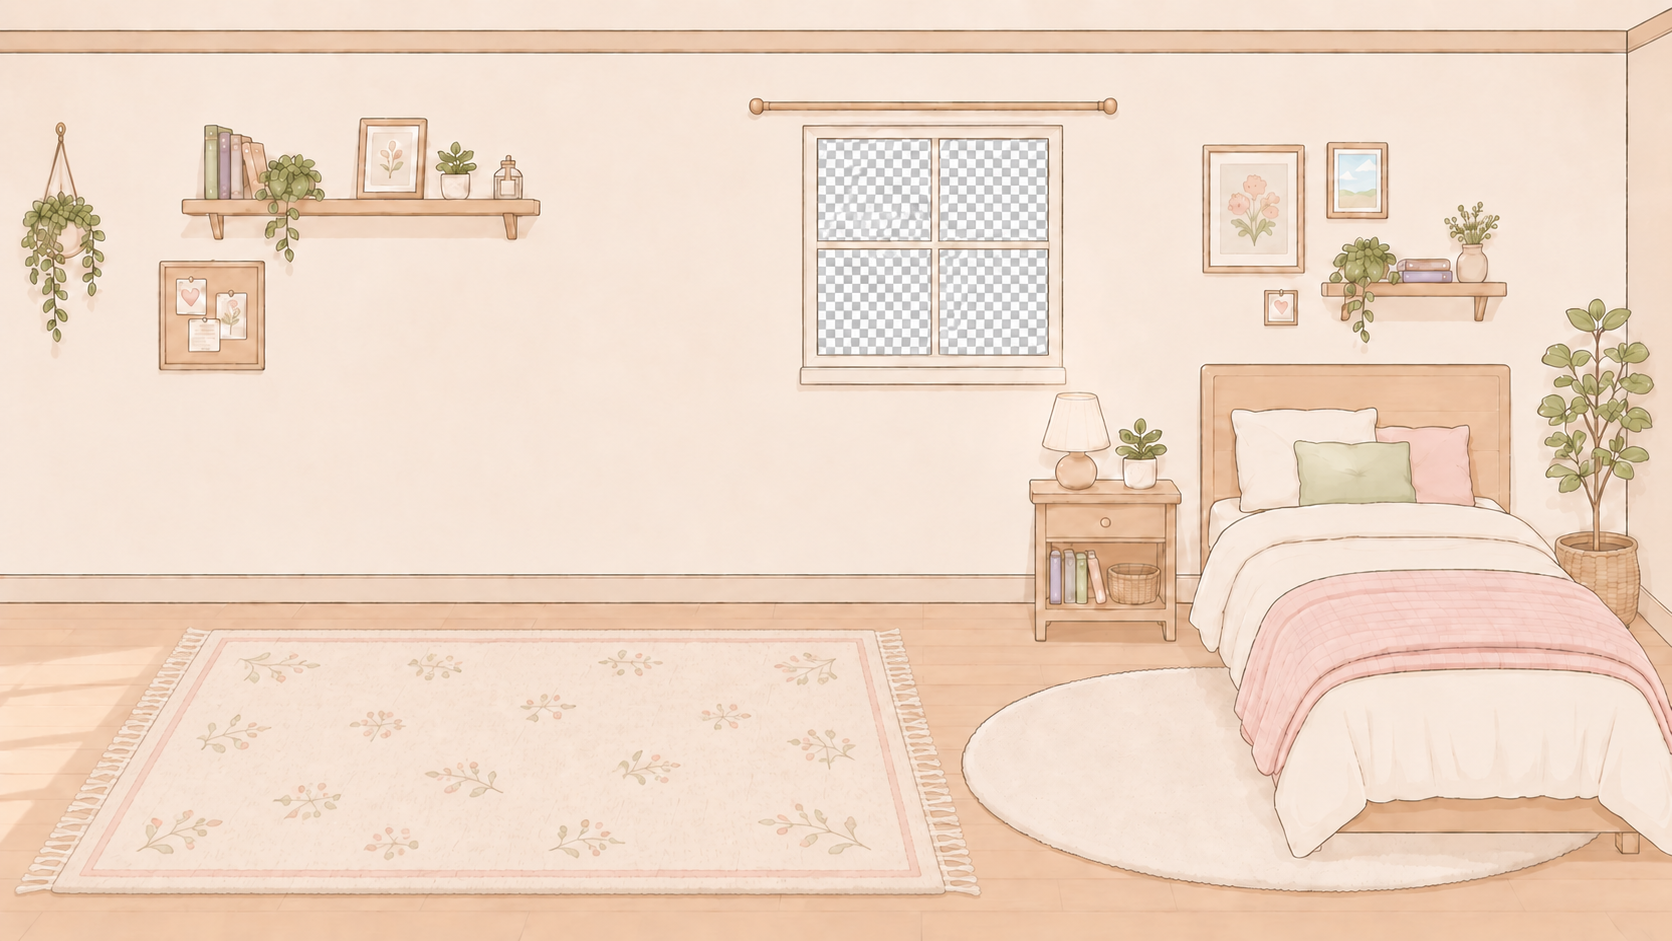
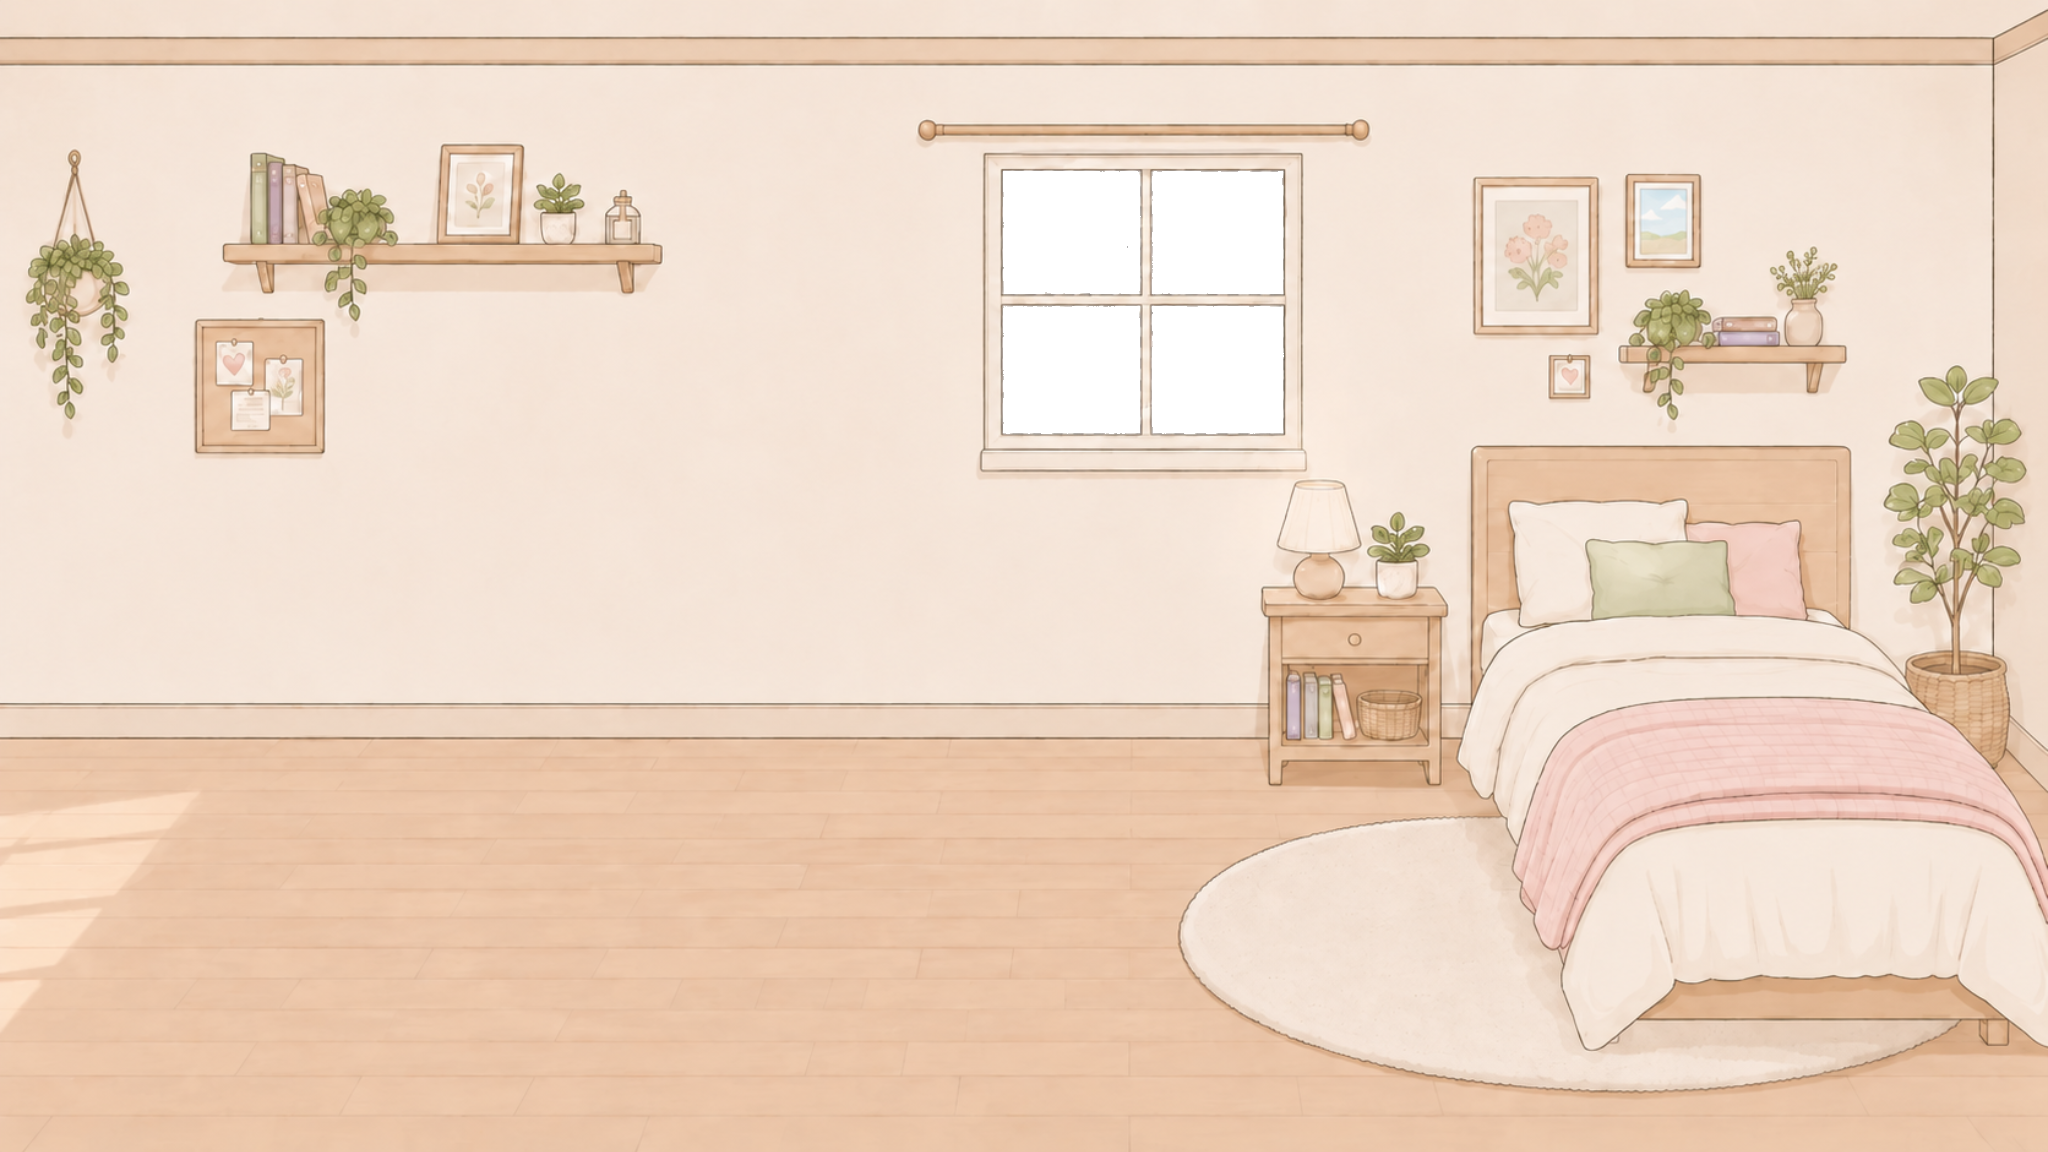
保存版本

diff --git a/src/features/room/roomView.js b/src/features/room/roomView.js
@@ -105,25 +105,6 @@ export function renderRoomScene(root) {
               <div class="profile-window-content" id="profileContent"></div>
             </div>
             <button class="profile-edit-btn" id="profileEditBtn" type="button">修改</button>
-      </div>
-      <div class="wardrobe-tools" id="wardrobeTools" aria-label="衣柜分类">
-        <div class="category-menu" id="categoryMenu">
-          <button class="category-btn" type="button" data-category="hat" aria-pressed="false">帽子</button>
-          <button class="category-btn" type="button" data-category="top" aria-pressed="false">上衣</button>
-          <button class="category-btn" type="button" data-category="coat" aria-pressed="false">外套</button>
-          <button class="category-btn" type="button" data-category="pants" aria-pressed="false">裤子</button>
-        </div>
-        <div class="item-grid-panel" id="itemGridPanel" aria-label="衣物格子"></div>
-        <div class="selection-actions" id="selectionActions" aria-label="衣物选择操作">
-          <button class="selection-action-btn" id="rotateItemBtn" type="button" hidden title="顺时针旋转 90°，可连续点击">旋转</button>
-          <button class="selection-action-btn" id="cancelSelectionBtn" type="button">返回</button>
-          <button class="selection-action-btn danger" id="takeOffBtn" type="button" hidden>脱下</button>
-          <button class="selection-action-btn confirm" id="confirmSelectionBtn" type="button">确认</button>
-        </div>
-        <div class="profile-preview" id="profilePreview">
-          <div class="profile-window">
-            <h3 class="profile-window-title">简介</h3>
-            <div class="profile-window-content" id="profileContent"></div>
           </div>
         </div>
       </div>
